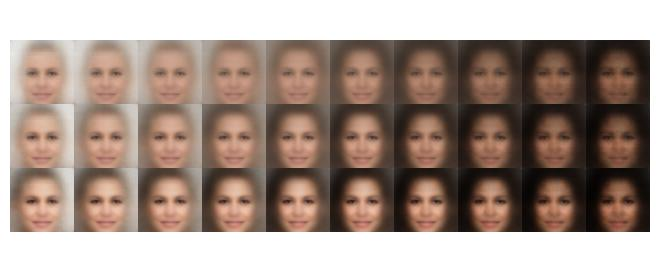
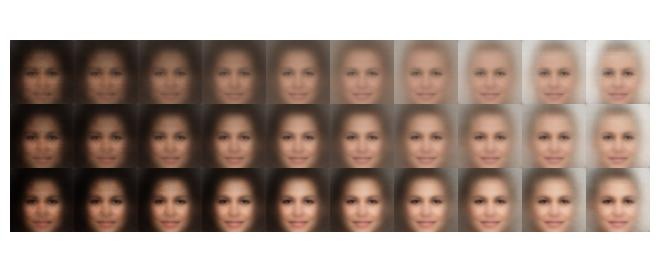
fixed latent traversal range

diff --git a/main.py b/main.py
@@ -3,6 +3,11 @@ import general_utils as gu
 import os
 import numpy as np
 import general_constants as gc
+
+###########################
+### Training The Models ###
+###########################
+
 #train with different KLD modifiers
 #regular VAE
 #main(is_train=True, save_folder="VAE", kld_function=lambda **kwargs: 1)
@@ -22,8 +27,11 @@ import general_constants as gc
 #main(is_train=True, save_folder="KLD_Decrease_100000_steps-10000to1-Beta-VAE", kld_function=lambda step,**kwargs: max(1, 10000-step/10), validation_off=True, max_steps = 125000)
 
 
-#"""
-# traversing the latent space:
+"""
+###################################
+### traversing the latent space ###
+###################################
+
 def create_interpolations(latent_space_anchor, latent_direction_1, latent_size, grid_size = 8):
 	#create grid of interpolations between faces:
 	v1 = (latent_direction_1 - latent_space_anchor)/(grid_size-1)
@@ -43,15 +51,15 @@ modelsavedir = [os.path.join(logdir, i, "model_save_point") for i in os.listdir(
 return_dict = main(is_train=False, test_images=test_images, modelsavedir=modelsavedir, save_image_results=None, return_images=True)
 images_path = []
 for model, latent_data in return_dict.items():
-	mean, std, kld = latent_data
+	mean, std, kld, maximum, minimum = latent_data
 	print()
 	print(model)
 	mean_sorted = np.argsort(np.abs(mean), axis=0).tolist()
 	#kld_sorted = np.argsort(kld, axis=0).tolist()
 	latent_space_anchor = np.zeros((32))
 	latent_direction_1 = np.zeros((32))
-	latent_space_anchor[mean_sorted[-1]] = -3
-	latent_direction_1[mean_sorted[-1]] = 3
+	latent_space_anchor[mean_sorted[-1]] = maximum[mean_sorted[-1]]
+	latent_direction_1[mean_sorted[-1]] = minimum[mean_sorted[-1]]
 	num_images = 10
 	latents = create_interpolations(latent_space_anchor, latent_direction_1, 32, num_images)
 	latents = np.stack((latents, latents+std, latents+std*2))

diff --git a/run_model.py b/run_model.py
@@ -135,9 +135,12 @@ def main(is_train=False, **kwargs):
 	std_analysis = [tf.reduce_mean(tf.exp(0.5*dist_params[1])), tf.reduce_min(tf.exp(0.5*dist_params[1])), tf.reduce_max(tf.exp(0.5*dist_params[1]))]
 	mean_analysis = [tf.reduce_mean(dist_params[0]), tf.reduce_min(dist_params[0]), tf.reduce_max(dist_params[0])]
 
-	latent_element_std_analysis = tf.reduce_mean(tf.exp(0.5*dist_params[1]), axis=0)
-	latent_element_mean_analysis = tf.reduce_mean(dist_params[0], axis=0)
-	latent_element_kld_analysis = tf.reduce_mean(vae.kl_isonormal_loss(False), axis=0)
+	latent_element_std_average = tf.reduce_mean(tf.exp(0.5*dist_params[1]), axis=0)
+	latent_element_mean_average = tf.reduce_mean(dist_params[0], axis=0)
+	latent_element_kld_average = tf.reduce_mean(vae.kl_isonormal_loss(False), axis=0)
+	latent_element_max = tf.reduce_max(vae.latent_output, axis=0)
+	latent_element_min = tf.reduce_min(vae.latent_output, axis=0)
+
 	# run model
 	with tf.Session(config=tf.ConfigProto(gpu_options=tf.GPUOptions(per_process_gpu_memory_fraction=0.8))) as sess:
 		# print(training_data["data"].shape)
@@ -249,7 +252,12 @@ def main(is_train=False, **kwargs):
 					orig_images_val, recon_val = sess.run([inputs, reconstruction_prediction], feed_dict=test_feed_dict)
 					create_images_kwargs["original_images"] = orig_images_val[:48]
 					create_images_kwargs["reconstruction"] = recon_val[:48]
-					latent_analysis = sess.run([latent_element_mean_analysis, latent_element_std_analysis, latent_element_kld_analysis], feed_dict=test_feed_dict)
+					latent_analysis = sess.run([
+						latent_element_mean_average, 
+						latent_element_std_average, 
+						latent_element_kld_average,
+						latent_element_max,
+						latent_element_min,], feed_dict=test_feed_dict)
 					#print()
 					#print(modelsavedir[step].split("/")[1])
 					return_dict[modelsavedir[step]] = latent_analysis

diff --git a/README.md b/README.md
@@ -40,10 +40,12 @@ But how does the specific disentangled features correspond to the features that 
 
 The reason why disentanglement 'happens' to correspond to the features that we recognize is due to the fact that there is structure within the data, which can be found by both humans and AI. I mentioned above that a function of the variance in the features, given the bias in the loss is what causes disentanglement in the model. I believe that this _variance in the features_ is what people use to classify different features. If there is an variance between similar details (these details are mutually exclusive with each other), then this will be called a feature. differnt types of features are separated by further differences, and are independent/have cases which they are independent of each other. For example, if eye color is a feature, it can only have one dominant colour (from a high level view of the face, for simple models). Whereas nose shape is independent of eye color will be a separate feature. (of course, we can get more specific with multieye colour, but even then, each colour would then be a feature, still maintaining independence). The model learns these facts though the loss as defined above.
 
-Something interesting about disentanglement is it's relationship with domain randomization. Domain randomization seems to increase the amount of data used for training. It seems to directly try to tackle the the problem above, learning variance between the features (which covary, which ones are independent and which ones are mutually exclusive) by directly increasing the amount of variance per feature, which will further distinguish each feature. Domain randomization aims to directly increase the amount of variance between desirable features in the data, letting the model to find the structure within the relationships of the data, while causing a natural regularizing effect with noise withing the original data generative factors. Disentanglement using VAEs lower the information capacity of what is being passed through as a regularizer, which will cause the model to be more sensitive to these high amounts of variance thus causing a similar effect to domain randomization. Both these regularizing effects aim for stability to different features/examples and learning of the data generative factors. Though the difference between them seems to be how they treat the nuance factors. Domain randomization aims to ignore them, and disentanglement aims to still take them into account. (invariance vs equivariance)
+Something interesting about disentanglement is it's relationship with domain randomization. Domain randomization seems to increase the amount of data used for training. It seems to directly try to tackle the the problem above, learning variance between the features (which covary, which ones are independent and which ones are mutually exclusive) by directly increasing the amount of variance per feature, which will further distinguish each feature. Domain randomization aims to directly increase the amount of variance between desirable features in the data, letting the model to find the structure within the relationships of the data, while causing a natural regularizing effect with noise withing the original data generative factors. Disentanglement using VAEs lower the information capacity of what is being passed through as a regularizer, which will cause the model to be more sensitive to these high amounts of variance thus causing a similar effect to domain randomization. Both these regularizing effects aim for stability to different features/examples and learning of the data generative factors. Though the difference between them seems to be how they treat the nuisance factors. Domain randomization aims to ignore them, and disentanglement aims to still take them into account. (invariance vs equivariance)
 
 ### Disentanglement Metric
-TBD
+From [β-VAE](https://openreview.net/pdf?id=Sy2fzU9gl)
+
+The original metric to evaluate disentanglement is to see the linear relationship between the ground truth factors and the disentangled representation. 
 
 ## Analysis:
 
@@ -61,7 +63,7 @@ Here are the tests that were run:
 
 To do analysis of disentanglement, we should decide which element in the latent representation to vary. Lets try the most distinct feature first. Under heavy regularizations, the model will try to optimize for the feature that affects the loss the most. We can try to get the average distribution per element that is the furthest from a zero-centered isotropic normal distribution, specifically, the mean should be the farthest from zero. Lets try to see what happens when varying this element.
 
-Here I used a zero vector with the ith element as a value from range -3 to 3, where i is the element with the highest absolute mean. Keep in mind that this might be a source of error, as the space of the training latents is shrinked as the β term is increased. This means that the range is not relative to the range of training samples.
+Here I used a zero vector with the ith element as a value from range min_element to max_element, where i is the element with the highest absolute mean, and min_element and max_element are the min and max values respectively, of a given element in the latent representation after running 1000 samples.
 
 β = 10000, KLD is too large, causing posterior collapse
 ![β = 10000](images/latent_traversal/10000-Beta-VAE.jpg)
